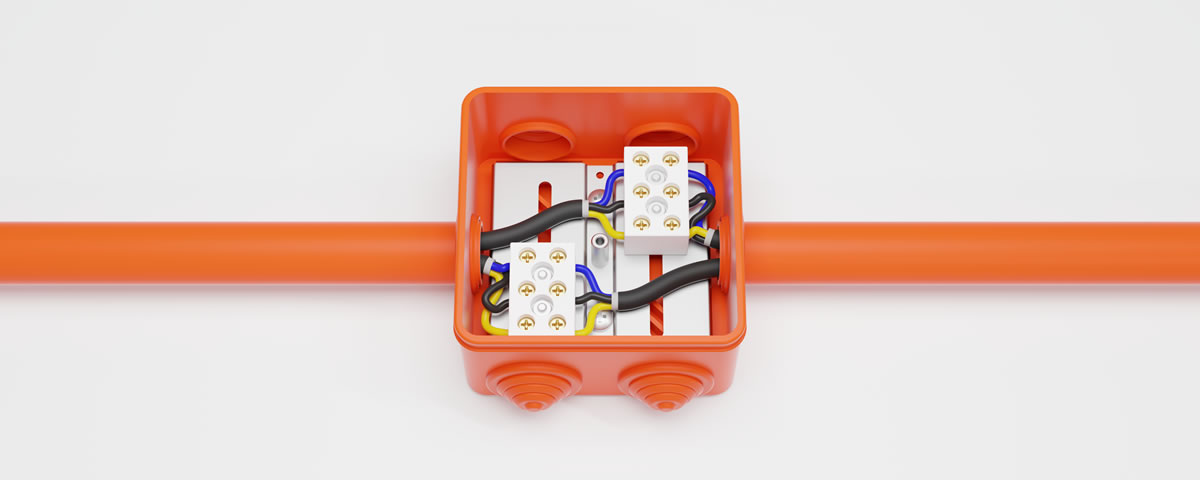
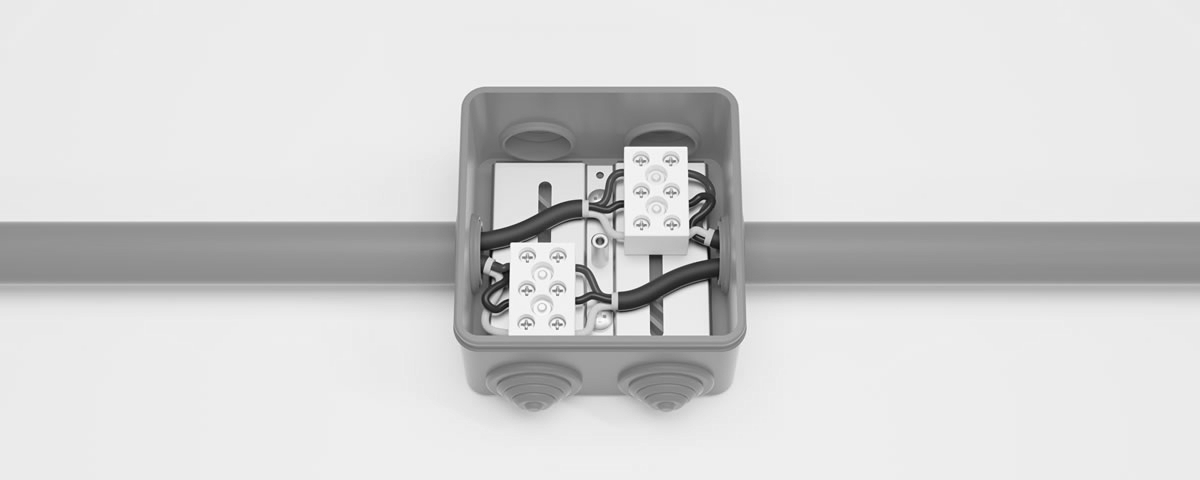
Hauora вместо Fragment Mono, подпись в хиро, крупные иконки карточек v1, схемы в углу v2

Changed region(s): [[0.0, 0.1562, 1.0, 0.875], [0.5242, 0.5312, 0.555, 0.5938]]

diff --git a/styles.css b/styles.css
@@ -21,7 +21,7 @@
 
   --f-display: "HauoraL", "Manrope", system-ui, sans-serif;
   --f-ui: "Geist", system-ui, sans-serif;
-  --f-mono: "Fragment Mono", ui-monospace, monospace;
+  --f-mono: "HauoraL", "Manrope", system-ui, sans-serif;
   --f-num: "NeutralFaceL", "Unbounded", "Manrope", sans-serif;
 
   --pad: 40px;
@@ -61,7 +61,7 @@ html:not(.js) .loader { display: none; }
 /* ============ Typography ============ */
 .eyebrow {
   font-family: var(--f-mono);
-  font-size: 16px; letter-spacing: 1.44px; text-transform: uppercase;
+  font-size: 14px; font-weight: 500; line-height: 1.3; letter-spacing: .08em; text-transform: uppercase;
   color: var(--mono-grey);
 }
 .h2 {
@@ -198,6 +198,7 @@ html:not(.js) .loader { display: none; }
 .hero__video::after { content: ""; position: absolute; left: 0; right: 0; bottom: 0; height: 35%; background: linear-gradient(to top, rgba(205, 211, 223, .85), rgba(205, 211, 223, 0)); }
 .hero__content { position: absolute; left: 0; right: 0; bottom: 42px; }
 .hero__content .container { padding-left: 41px; display: flex; flex-direction: column; gap: 12px; align-items: flex-start; }
+.hero__eyebrow { color: rgba(27, 41, 83, .75); margin-bottom: 4px; }
 .hero__title {
   font-family: var(--f-display); font-weight: 700;
   font-size: clamp(34px, 4.17vw, 60px); line-height: 1.3; letter-spacing: -.02em; text-transform: uppercase;
@@ -239,10 +240,10 @@ html:not(.js) .loader { display: none; }
   transition: background .6s var(--ease), box-shadow .6s var(--ease);
 }
 .cat__icon {
-  position: absolute; left: 20px; top: 20px; width: 70px; height: 70px; border-radius: 16px; background: #fff;
+  position: absolute; left: 20px; top: 20px; width: 104px; height: 104px; border-radius: 22px; background: #fff;
   display: grid; place-items: center; transition: transform .6s var(--ease), opacity .4s var(--ease);
 }
-.cat__icon img { width: 48px; height: 48px; }
+.cat__icon img { width: 68px; height: 68px; }
 /* Заголовок + стрелка: внизу, при наведении уезжают к верху карточки */
 .cat__head {
   position: absolute; left: 20px; right: 20px; bottom: 20px; height: 40px;
@@ -254,7 +255,7 @@ html:not(.js) .loader { display: none; }
 .cat__subs { position: absolute; left: 20px; right: 20px; top: 72px; margin: 0; padding: 0; list-style: none; display: flex; flex-direction: column; gap: 5px; pointer-events: none; }
 .cat__subs li { opacity: 0; transform: translateY(14px); transition: opacity .35s var(--ease), transform .5s var(--ease); }
 .cat__subs a {
-  font-family: var(--f-mono); font-size: 14px; line-height: 18px; color: var(--text-grey);
+  font-family: var(--f-mono); font-size: 14px; line-height: 18px; letter-spacing: -.01em; color: var(--text-grey);
   text-decoration: underline; text-underline-offset: 3px; text-decoration-thickness: 1px; transition: color .3s;
 }
 .cat__subs a:hover { color: var(--red); }

diff --git a/version 2/style.css b/version 2/style.css
@@ -153,6 +153,7 @@ button { cursor: pointer; }
 .slide--photo .slide__media img { inset: 0; width: 100%; height: 100%; object-fit: cover; }
 .slide--photo .slide__media::after { content: ""; position: absolute; inset: 0; background: linear-gradient(90deg, rgba(3,15,31,.92) 0%, rgba(27,41,83,.55) 50%, rgba(27,41,83,.15) 100%); }
 .slide__content { position: relative; z-index: 2; height: 100%; display: flex; flex-direction: column; justify-content: center; align-items: flex-start; gap: 34px; padding-bottom: 150px; }
+.slide__label { color: rgba(246, 247, 249, .88); margin-bottom: -14px; text-shadow: 0 1px 14px rgba(3, 15, 31, .7); }
 .slide__title { font-size: clamp(40px, 4.4vw, 64px); line-height: 1.13; font-weight: 700; letter-spacing: -.02em; text-transform: uppercase; }
 .slide .btn--red::before { background: #fff; }
 .slide .btn--red:hover { color: var(--blue); }
@@ -218,9 +219,7 @@ button { cursor: pointer; }
 .cat:hover .cat__subs li:nth-child(4), .cat:focus-within .cat__subs li:nth-child(4) { transition-delay: .27s; }
 .cat:hover .cat__subs li:nth-child(5), .cat:focus-within .cat__subs li:nth-child(5) { transition-delay: .32s; }
 
-.cat__illu { position: absolute; right: 0; top: 0; height: 78%; width: auto; max-width: 75%; object-fit: contain; object-position: right top; pointer-events: none; transition: opacity .5s var(--ease), transform .8s var(--ease); }
-.cat__illu--korobki { inset: 0; width: 100%; max-width: none; height: 100%; object-fit: cover; object-position: 50% 0; }
-.cat__illu--katalog { top: 16px; height: auto; width: 82%; max-width: none; }
+.cat__illu { position: absolute; right: 0; top: 0; width: 170px; height: 120px; object-fit: contain; object-position: right top; pointer-events: none; transition: opacity .5s var(--ease), transform .8s var(--ease); }
 .cat__meta, .cat__head, .cat__subs { z-index: 1; }
 .cat:hover .cat__illu, .cat:focus-within .cat__illu { opacity: .12; transform: translateY(-10px); }
 

diff --git a/version 2/script.js b/version 2/script.js
@@ -142,11 +142,13 @@
     if (!hasGSAP || still) return;
     const lines = slide.querySelectorAll('.ln > span');
     const btn = slide.querySelector('.btn');
+    const label = slide.querySelector('.slide__label');
     const img = slide.querySelector('.slide__media img');
     const tl = gsap.timeline();
     tl.fromTo(img, { opacity: 0, x: 120 * dir, scale: 1.06 }, { opacity: 1, x: 0, scale: 1, duration: 1.4, ease: 'expo.out' })
       .fromTo(lines, { yPercent: 110 }, { yPercent: 0, duration: 1.1, stagger: .09, ease: 'expo.out' }, .15)
-      .fromTo(btn, { opacity: 0, y: 20 }, { opacity: 1, y: 0, duration: .9, ease: 'expo.out' }, .45);
+      .fromTo(btn, { opacity: 0, y: 20 }, { opacity: 1, y: 0, duration: .9, ease: 'expo.out' }, .45)
+    if (label) tl.fromTo(label, { opacity: 0, y: 12 }, { opacity: 1, y: 0, duration: .9, ease: 'expo.out' }, .1);
     return tl;
   };
   const restartProgress = () => {
@@ -240,6 +242,7 @@
   gsap.delayedCall(.5, () => { animateIn(slides[0], 1); restartProgress(); });
   gsap.set(slides[0].querySelectorAll('.ln > span'), { yPercent: 110 });
   gsap.set(slides[0].querySelector('.btn'), { opacity: 0 });
+  gsap.set(slides[0].querySelector('.slide__label'), { opacity: 0 });
   gsap.set(slides[0].querySelector('.slide__media img'), { opacity: 0 });
 
   /* Статистика */

diff --git a/index.html b/index.html
@@ -8,7 +8,7 @@
   <link rel="icon" href="assets/icons/logo-mark.svg">
   <link rel="preconnect" href="https://fonts.googleapis.com">
   <link rel="preconnect" href="https://fonts.gstatic.com" crossorigin>
-  <link href="https://fonts.googleapis.com/css2?family=Geist:wght@500;600;700&family=Fragment+Mono&family=Manrope:wght@400;500;600;700&family=Unbounded:wght@700&display=swap" rel="stylesheet">
+  <link href="https://fonts.googleapis.com/css2?family=Geist:wght@500;600;700&family=Manrope:wght@400;500;600;700&family=Unbounded:wght@700&display=swap" rel="stylesheet">
   <link rel="stylesheet" href="styles.css">
   <script>document.documentElement.classList.add('js')</script>
 </head>
@@ -73,6 +73,7 @@
     </div>
     <div class="hero__content">
       <div class="container">
+        <span class="eyebrow hero__eyebrow" data-hero-eyebrow>Российский производитель кабельных систем</span>
         <h1 class="hero__title" data-split>Системы, которые <em>Соединяют</em></h1>
         <a href="#catalog" class="btn btn--solid" data-hero-btn>
           <span class="btn__label">Каталог решений</span>

diff --git a/script.js b/script.js
@@ -177,6 +177,7 @@
   const heroWords = splitWords(heroTitle);
   gsap.set(heroWords, { yPercent: 110 });
   gsap.set('[data-hero-btn]', { opacity: 0, y: 20 });
+  gsap.set('[data-hero-eyebrow]', { opacity: 0, y: 12 });
   gsap.set('[data-hero-art]', { opacity: 0 });
   gsap.set('[data-hero-img]', { scale: 1.12 });
   gsap.set('.header', { yPercent: -100 });
@@ -191,7 +192,8 @@
     .to('[data-hero-art]', { opacity: 1, duration: 1.2, ease: 'power2.out' }, '-=.6')
     .to('[data-hero-img]', { scale: 1, duration: 2.2, ease: 'expo.out' }, '<')
     .to('.header', { yPercent: 0, duration: 1, ease: 'expo.out', clearProps: 'transform' }, '<.2')
-    .to(heroWords, { yPercent: 0, duration: 1.1, stagger: .09, ease: 'expo.out' }, '<.15')
+    .to('[data-hero-eyebrow]', { opacity: 1, y: 0, duration: .9, ease: 'expo.out' }, '<.1')
+    .to(heroWords, { yPercent: 0, duration: 1.1, stagger: .09, ease: 'expo.out' }, '<.05')
     .to('[data-hero-btn]', { opacity: 1, y: 0, duration: .9, ease: 'expo.out' }, '<.35');
 
   gsap.to('.hero__content', {

diff --git a/version 2/index.html b/version 2/index.html
@@ -44,6 +44,7 @@
       <div class="slide slide--tubes is-active" data-slide>
         <div class="slide__media"><img src="assets/hero-tubes.webp" alt=""></div>
         <div class="wrap slide__content">
+          <span class="label slide__label">Российский производитель кабельных систем</span>
           <h1 class="slide__title"><span class="ln"><span>Системы,</span></span><span class="ln"><span>которые</span></span><span class="ln"><span>соединяют</span></span></h1>
           <a href="#catalog" class="btn btn--red"><span class="btn__roll"><span>Каталог решений</span><span>Каталог решений</span></span><span class="arr">→</span></a>
         </div>
